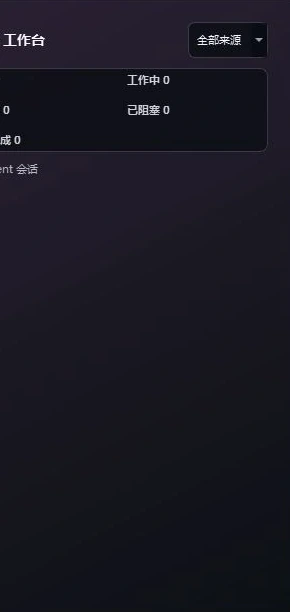
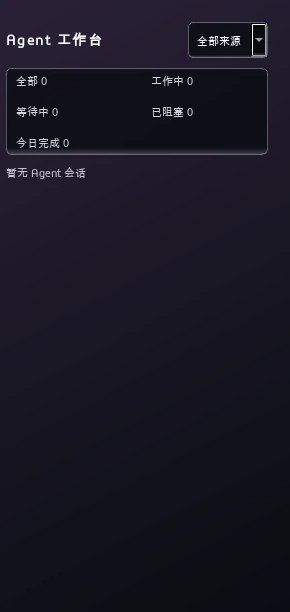
docs: refresh AutoClipboard 0.3.67 interface

diff --git a/README.en.md b/README.en.md
@@ -186,7 +186,7 @@ The screen also shows the current Profile, battery, time, device state, and the 
 <!-- section:s013 -->
 ## AutoClipboard
 
-AutoClipboard is the desktop companion application. It can display the active Bluetooth device, configure Profile names and icons, record macros, adjust the screen, light ring and buzzer, preview IMU orientation, configure the presenter Halo, provide account and free/premium voice-input entry points, and perform controlled firmware updates.
+AutoClipboard is the desktop companion application. It can display the active Bluetooth device, configure Profile names and icons, record macros, adjust the screen, light ring, buzzer, and power policy, preview IMU orientation, configure the presenter Halo, and provide an Agent dashboard, model-usage queries, account entry points, free/premium voice input, automatic application updates, and controlled firmware maintenance.
 
 <p align="center">
   <img src="docs/assets/user-guide/autoclipboard-main.webp" alt="AutoClipboard main window" width="820">
@@ -200,7 +200,7 @@ AutoClipboard is the desktop companion application. It can display the active Bl
   <img src="docs/assets/user-guide/autoclipboard-settings.webp" alt="AutoClipboard device settings" width="900">
 </p>
 
-These are real renders from the current AutoClipboard `0.3.62` source, not generated UI mockups. They were captured with isolated clean settings and contain no personal account, Agent-session, or physical-handle identifiers, so signed-out and BLE-disconnected states are expected. For numbered region diagrams, control-by-control effects, and a clear distinction between software-only and hardware-changing settings, read the [AutoClipboard software interface manual](docs/en/software-interface-manual.md). Keep AutoClipboard running in the background when using Agent status synchronization, Profile quick launch, IMU preview, voice input, or the presenter Halo.
+These are real renders from the current AutoClipboard `0.3.67` source, not generated UI mockups. They use isolated clean settings and a redacted demo device name, with no personal account, Agent-session, real Bluetooth suffix, or serial-port identifier. Signed-out, empty-Agent, and `CommunistKB-XXXX` safe-demo states are therefore expected. For numbered region diagrams, control-by-control effects, and a clear distinction between software-only and hardware-changing settings, read the [AutoClipboard software interface manual](docs/en/software-interface-manual.md). Keep AutoClipboard running in the background when using Agent status synchronization, Profile quick launch, IMU preview, voice input, or the presenter Halo.
 
 <!-- section:s014 -->
 ## Downloads

diff --git a/README.md b/README.md
@@ -183,7 +183,7 @@ CommunistKB-XXXX
 <!-- section:s013 -->
 ## AutoClipboard 桌面软件
 
-AutoClipboard 是手柄的配套桌面软件，可以显示当前连接的蓝牙设备，配置 Profile 名称和图标，录制宏按键，调整小屏、灯环和蜂鸣器，查看 IMU 三维姿态，配置演讲光圈，并提供账户入口、免费/高级语音输入和受控固件更新流程。
+AutoClipboard 是手柄的配套桌面软件，可以显示当前连接的蓝牙设备，配置 Profile 名称和图标，录制宏按键，调整小屏、灯环、蜂鸣器与电源策略，查看 IMU 三维姿态，配置演讲光圈，并提供 Agent 工作台、模型用量查询、账户入口、免费/高级语音输入、软件自动更新和受控固件维护流程。
 
 <p align="center">
   <img src="docs/assets/user-guide/autoclipboard-main.webp" alt="AutoClipboard 主界面" width="820">
@@ -197,7 +197,7 @@ AutoClipboard 是手柄的配套桌面软件，可以显示当前连接的蓝牙
   <img src="docs/assets/user-guide/autoclipboard-settings.webp" alt="AutoClipboard 设备设置界面" width="900">
 </p>
 
-这里展示的是 AutoClipboard `0.3.62` 当前源码渲染出的真实界面，不是文生图界面。截图使用隔离的干净设置，未包含个人账户、Agent 会话或实体手柄标识，因此会显示未登录、BLE 未连接等安全演示状态。需要查看编号分区图、逐个控件的作用，以及“只改软件”和“会写入硬件”的明确区别，请阅读 [AutoClipboard 软件界面详细说明书](docs/zh-CN/software-interface-manual.md)。使用 Agent 状态同步、Profile 快开、IMU 预览、语音输入或演讲光圈时，请让 AutoClipboard 保持后台运行。
+这里展示的是 AutoClipboard `0.3.67` 当前源码渲染出的真实界面，不是文生图界面。截图使用隔离的干净设置和脱敏演示设备名，不包含个人账户、Agent 会话、真实蓝牙后缀或串口标识，因此会出现未登录、空 Agent、`CommunistKB-XXXX` 等安全演示状态。需要查看编号分区图、逐个控件的作用，以及“只改软件”和“会写入硬件”的明确区别，请阅读 [AutoClipboard 软件界面详细说明书](docs/zh-CN/software-interface-manual.md)。使用 Agent 状态同步、Profile 快开、IMU 预览、语音输入或演讲光圈时，请让 AutoClipboard 保持后台运行。
 
 <!-- section:s014 -->
 ## 下载文件

diff --git a/docs/en/user-guide.md b/docs/en/user-guide.md
@@ -325,7 +325,7 @@ The device settings window can provide:
 - IMU three-dimensional preview, calibration, recording, and presenter Halo controls.
 - Type-C device selection, serial diagnostics, Bluetooth repair entry points, and firmware maintenance.
 
-These are real renders from the current AutoClipboard `0.3.62` source, not generated UI mockups. The capture used isolated clean settings with real device services disabled, so it proves the software layout and visible controls only; it is not evidence of a physical-handle connection or hardware effect. Read the [AutoClipboard software interface manual](software-interface-manual.md) for numbered crops, every visible area, software-versus-hardware classification, and the result of each action.
+These are real renders from the current AutoClipboard `0.3.67` source, not generated UI mockups. The capture used isolated clean settings, a redacted demo device name, and disabled real device services, so it proves the software layout and visible controls only; it is not evidence of a physical-handle connection or hardware effect. Read the [AutoClipboard software interface manual](software-interface-manual.md) for numbered crops, every visible area, software-versus-hardware classification, and the result of each action.
 
 <!-- section:s032 -->
 ### Understand the two Bluetooth layers

diff --git a/docs/en/software-interface-manual.md b/docs/en/software-interface-manual.md
@@ -7,7 +7,7 @@ This manual explains the current AutoClipboard main window, voice configuration,
 
 The screenshots are actual renders from the current AutoClipboard source, not generated UI mockups. To keep personal accounts, Agent sessions, Bluetooth suffixes, and serial-port details out of public documentation, the captures use isolated clean settings with real device services disabled. The crops only add numbered outlines or isolate regions; they do not redraw controls or pretend to validate physical hardware.
 
-> AutoClipboard version shown: `0.3.62`. Signed-out, BLE-disconnected, and empty-Agent states are intentional safe-demo states. Battery percentage, Profile name, COM port, Agent count, and Bluetooth suffix vary by computer and handle.
+> AutoClipboard version shown: `0.3.67`. Signed-out, empty-Agent, redacted `CommunistKB-XXXX`, and no-serial-selected states are intentional safe-demo states. Battery percentage, Profile name, COM port, Agent count, and Bluetooth suffix vary by computer and handle.
 
 <!-- section:s002 -->
 ## How to read the “changes” column

diff --git a/docs/zh-CN/software-interface-manual.md b/docs/zh-CN/software-interface-manual.md
@@ -7,7 +7,7 @@
 
 本文使用的都是 AutoClipboard 当前源码实际渲染的截图，不是文生图界面。为避免把个人账户、Agent 会话、蓝牙后缀或串口信息写入公开文档，截图使用隔离的干净设置并禁用了真实设备服务；局部图只做编号标记和裁切，不会重绘控件或冒充实体设备验证。
 
-> 截图对应 AutoClipboard `0.3.62`。图中的未登录、BLE 未连接和空 Agent 状态是安全演示状态；实际电量、Profile 名称、COM 端口、Agent 数量和蓝牙名称后缀会随用户设备变化。
+> 截图对应 AutoClipboard `0.3.67`。图中的未登录、空 Agent、脱敏的 `CommunistKB-XXXX` 和未选择串口都是安全演示状态；实际电量、Profile 名称、COM 端口、Agent 数量和蓝牙名称后缀会随用户设备变化。
 
 <!-- section:s002 -->
 ## 先看懂“改动对象”标记
